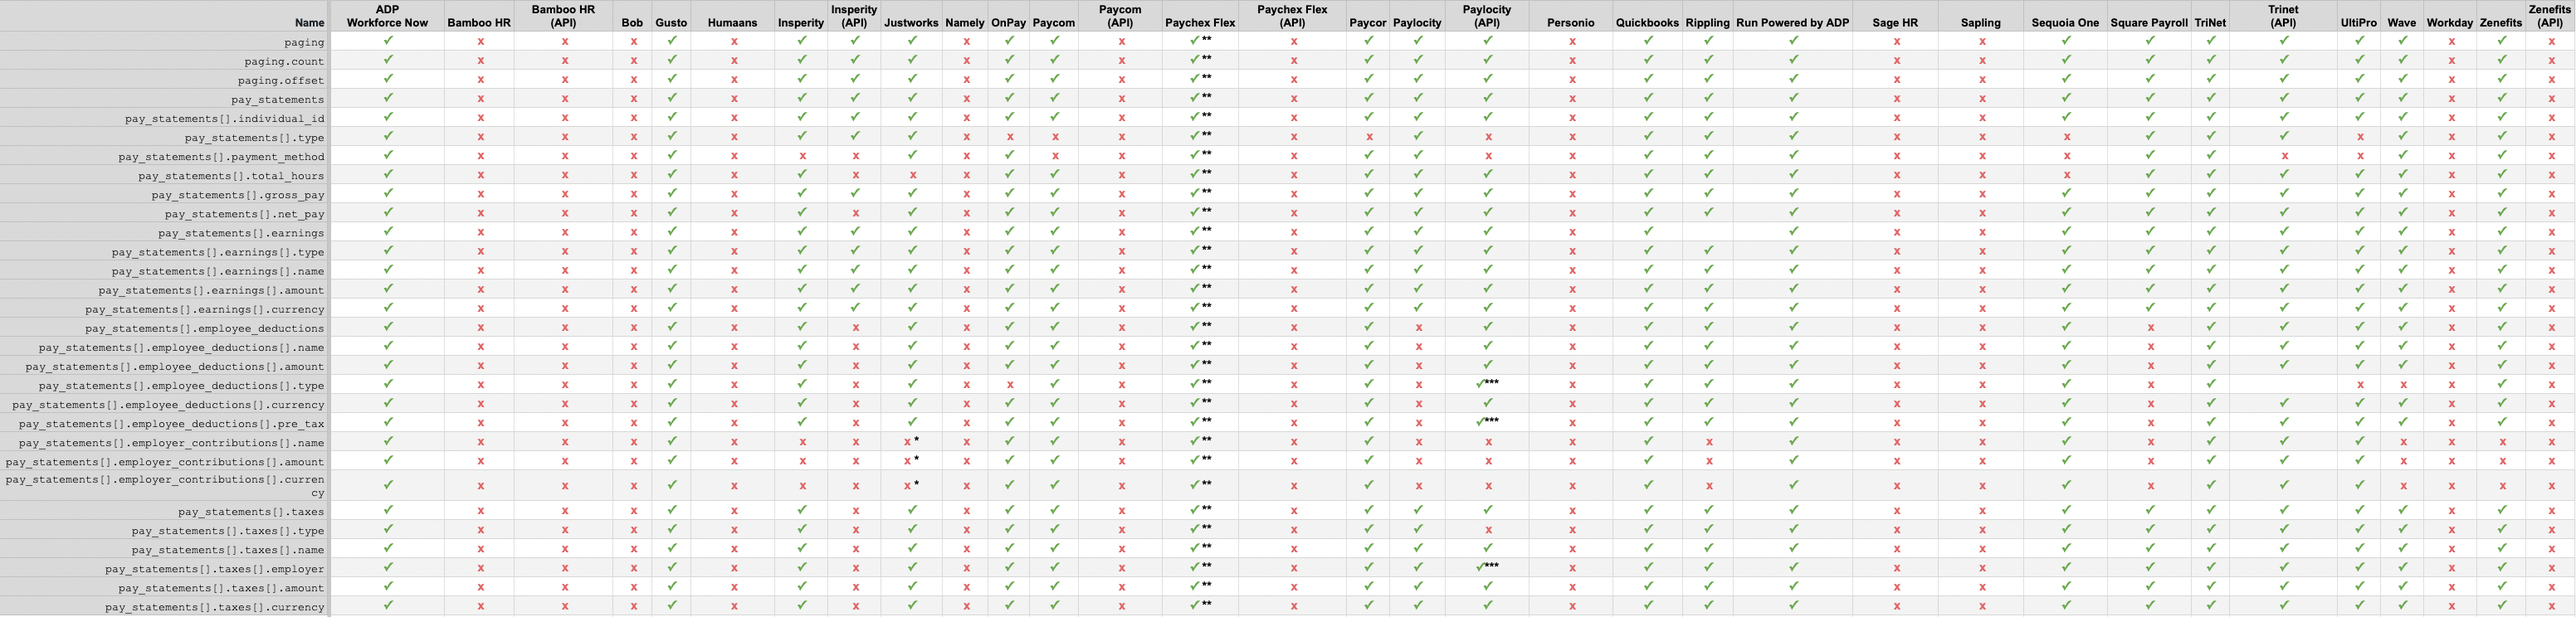
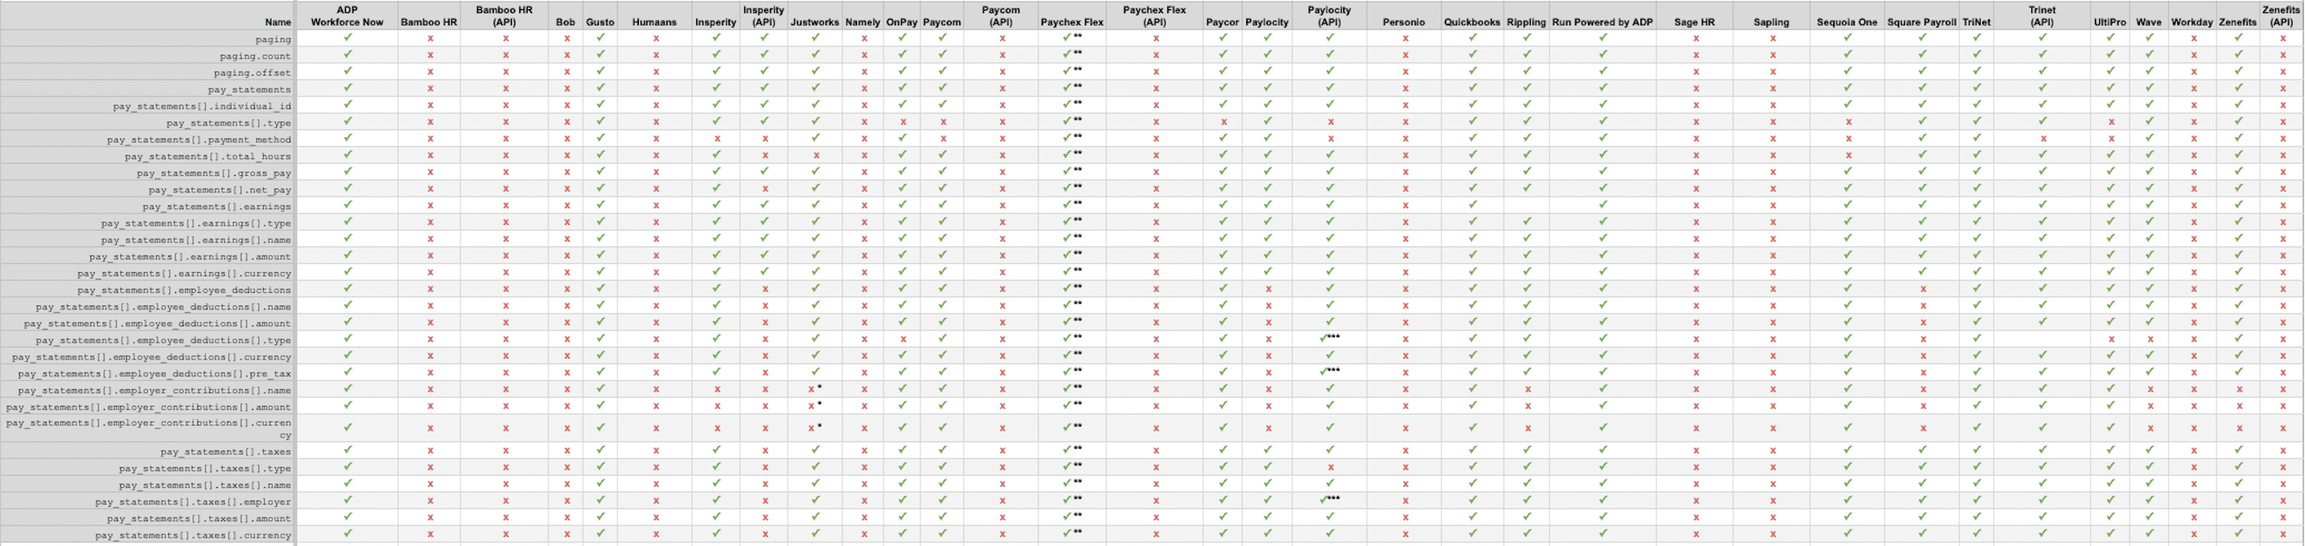
Updated compatibility matrix to include deductions for Paylocity API [EN-2272]

diff --git a/docs/Development-Guides/Compatibility.md b/docs/Development-Guides/Compatibility.md
@@ -38,7 +38,6 @@ title: HRIS
 ### Employment
 ![employment.png](../../assets/images/employment.png)
 
-
 <p><i>* Initial only</i><br>
 <i>** Requires customer to be at highest package tier, ADP Run Pro</i></br>
 <i>*** These fields are not provided for contractors</i></p>
@@ -47,7 +46,7 @@ title: HRIS
 ![payment.jpg](../../assets/images/payment.png)
 
 ### Pay Statement
-![pay-statement.jpg](../../assets/images/pay-statement.png)
+![pay-statement.png](../../assets/images/pay-statement.png)
 
 <p><i>* 401k Match cannot be set on Justworks</i><br>
 <i>** Paychex Flex only exposes the previous 24 months of pay data</i></br>
